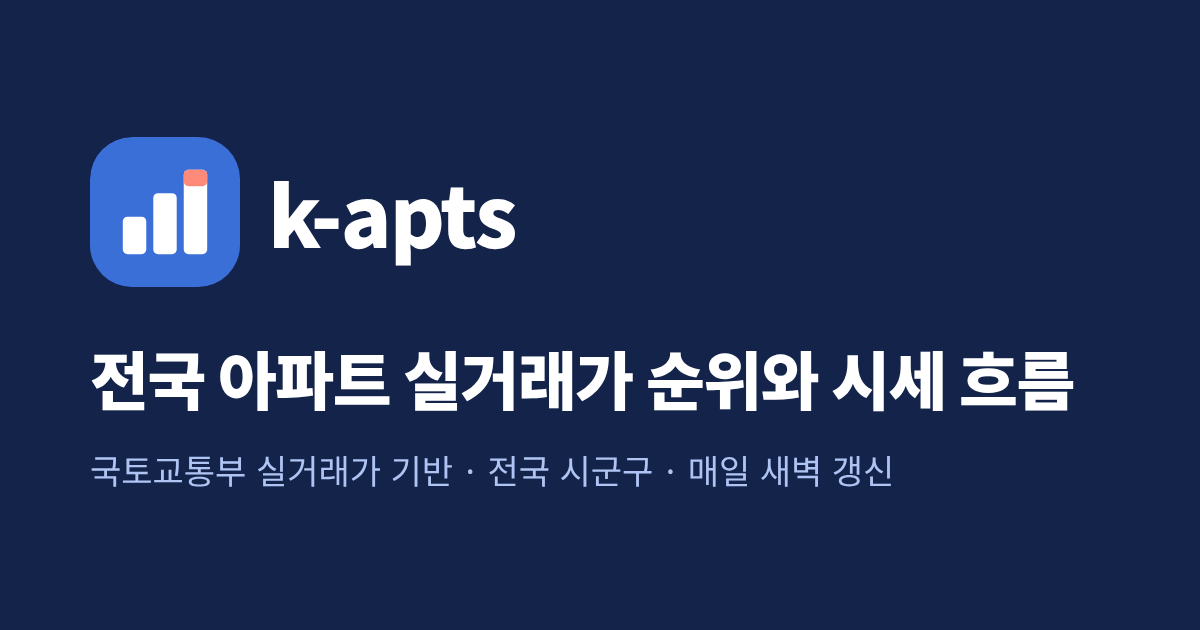
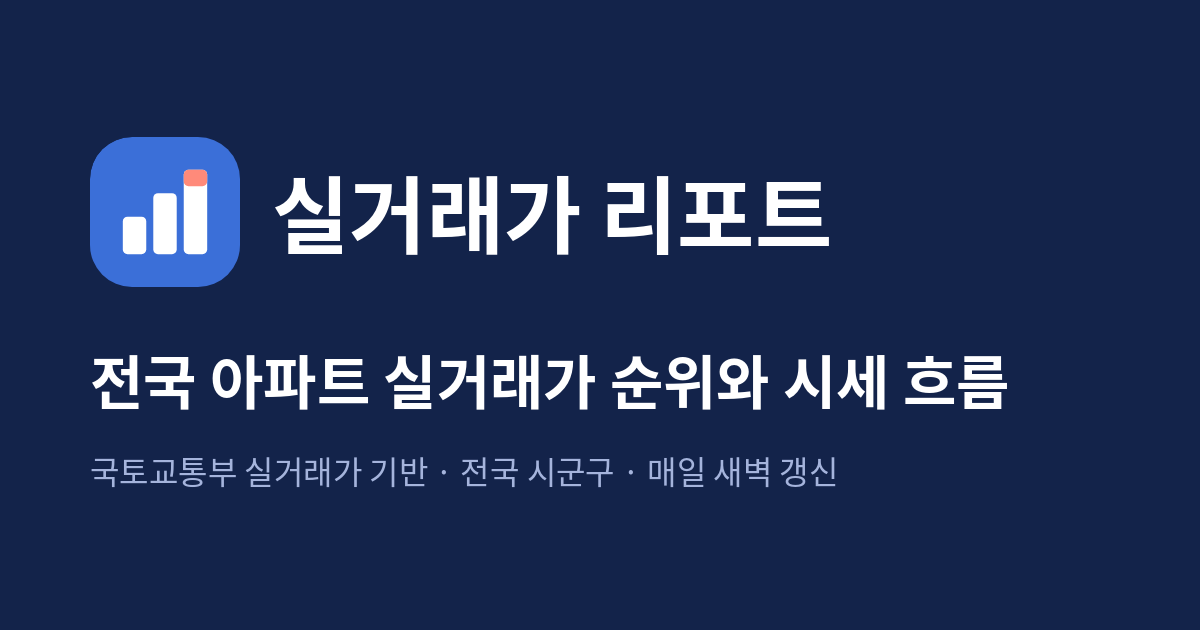
사이트 이름을 '실거래가 리포트'로 변경 (k-apts 표기 제거, 공유 이미지 교체)
Claude-Session: https://claude.ai/code/session_019dBEWx7VEgdon8M4S8WxhK

Changed region(s): [[0.0617, 0.5429, 0.8942, 0.6635], [0.2158, 0.2714, 0.7092, 0.4222], [0.0617, 0.7238, 0.74, 0.7841]]

diff --git a/site_assets/style.css b/site_assets/style.css
@@ -1,4 +1,4 @@
-/* k-apts 정적 사이트 — 데이터 리포트 톤: 본문 Pretendard, 제목 Noto Serif KR, 먹색·남색 바탕에 절제된 파랑 강조.
+/* 실거래가 리포트 정적 사이트 — 데이터 리포트 톤: 본문 Pretendard, 제목 Noto Serif KR, 먹색·남색 바탕에 절제된 파랑 강조.
    상승 빨강·하락 파랑(국내 관례), 카드는 얕은 그림자 대신 가는 선으로 구분. */
 :root {
   --bg: #F6F5F1; --card: #FFFFFF; --ink: #0E1A2E; --text: #273244; --muted: #6A7180; --line: #E3E1DA; --line-2: #EEECE6;

diff --git a/site_build.py b/site_build.py
@@ -174,7 +174,7 @@ def news_lines(name, d, m, last, gen):
     if r["상태"] == "잠정":
         dl = m + pd.offsets.MonthEnd(0) + pd.Timedelta(days=30)
         note = f", {m:%-m월}분은 신고기한({dl:%-m월 %-d일}) 전 잠정치"
-    src = f"자료: 국토교통부 아파트 매매 실거래가({gen:%Y.%m.%d} 집계{note}), k-apts 계산"
+    src = f"자료: 국토교통부 아파트 매매 실거래가({gen:%Y.%m.%d} 집계{note}), 실거래가 리포트 계산"
     return out, src
 
 
@@ -199,7 +199,7 @@ def josa(word, a, b):
 def story_items(sg, gen, data_end):
     """기자가 관심 가질 만한 숫자를 자동으로 골라 기사체 문장으로 만든다.
     잡음을 줄이려고 최근 3개월 거래가 100건 이상인 시군구만 본다."""
-    src = f"국토교통부 아파트 매매 실거래가({gen:%Y.%m.%d} 집계), k-apts 계산"
+    src = f"국토교통부 아파트 매매 실거래가({gen:%Y.%m.%d} 집계), 실거래가 리포트 계산"
     big = sg[sg["거래수_3개월"] >= 100].copy()
     items = []
 
@@ -373,7 +373,7 @@ class Site:
 {robots}<link rel="canonical" href="{url}">
 <meta property="og:title" content="{e(title)}"><meta property="og:description" content="{e(desc)}">
 <meta property="og:type" content="website"><meta property="og:url" content="{url}">
-<meta property="og:site_name" content="k-apts"><meta property="og:locale" content="ko_KR">
+<meta property="og:site_name" content="실거래가 리포트"><meta property="og:locale" content="ko_KR">
 <meta property="og:image" content="{self.base_url}/og.png"><meta property="og:image:width" content="1200">
 <meta property="og:image:height" content="630"><meta name="twitter:card" content="summary_large_image">
 <meta name="theme-color" content="#0E1A2E">{self.verify}
@@ -387,14 +387,14 @@ class Site:
 <header class="top"><div class="shell bar">
 <button type="button" class="navbtn" aria-label="메뉴 열기" aria-controls="side" aria-expanded="false"
  onclick="kNav(this)"><span></span><span></span><span></span></button>
-<a class="logo" href="{up}index.html">{MARK}<span>k-apts<small>실거래가 리포트</small></span></a>
+<a class="logo" href="{up}index.html">{MARK}<span>실거래가 리포트</span></a>
 <form class="search" role="search" onsubmit="return kGo(this)"><input name="q" list="k-regions" autocomplete="off"
  placeholder="지역 검색 (예: 대구 수성구)" aria-label="지역 검색"><button>검색</button></form>
 </div></header>
 <div class="shell layout">{self.side(path, up)}<div class="scrim" onclick="kNav()"></div>
 <main class="content">{crumb}{body}</main></div>
 <footer class="foot"><div class="shell">
-<div class="brand">{MARK}<span>k-apts</span></div>
+<div class="brand">{MARK}<span>실거래가 리포트</span></div>
 <p>국토교통부 아파트 매매 실거래가를 매일 새벽 받아 전국 시군구의 가격 흐름을 계산합니다.</p>
 <p>실거래가: 국토교통부(공공데이터포털). 미분양·주택 준공: 국토교통부, 인구 이동: 국가데이터처(KOSIS).
 행정구역 경계: 통계청 SGIS, vuski/admdongkor(CC BY 4.0).</p>
@@ -438,10 +438,10 @@ class Site:
     def jsonld(self, path, crumbs):
         """검색 결과에 경로(전국 › 시도 › 시군구)가 보이도록 BreadcrumbList, 첫 화면엔 WebSite."""
         if path == "index.html":
-            org = {"@type": "Organization", "@id": f"{self.base_url}/#org", "name": "k-apts",
+            org = {"@type": "Organization", "@id": f"{self.base_url}/#org", "name": "실거래가 리포트",
                    "url": f"{self.base_url}/", "logo": f"{self.base_url}/logo-mark.png"}
             d = {"@context": "https://schema.org", "@graph": [org, {
-                "@type": "WebSite", "name": "k-apts", "alternateName": "k-apts 전국 아파트 실거래가",
+                "@type": "WebSite", "name": "실거래가 리포트", "alternateName": "실거래가 리포트 전국 아파트 실거래가",
                 "url": f"{self.base_url}/", "inLanguage": "ko", "publisher": {"@id": f"{self.base_url}/#org"}}]}
         elif crumbs:
             d = {"@context": "https://schema.org", "@type": "BreadcrumbList", "itemListElement": [
@@ -699,7 +699,7 @@ def main():
                         + briefing_html(ss, row(sido), "법정동", short) + "</div>")
             body.append(sibling_section(short, code, sib))
             body.append(site.coupang)
-            site.write(f"r/{code}.html", f"{name} 아파트 실거래가 순위와 시세 흐름 | k-apts",
+            site.write(f"r/{code}.html", f"{name} 아파트 실거래가 순위와 시세 흐름 | 실거래가 리포트",
                        page_desc(name, ss, tp.iloc[0] if len(r_sgg) else None, len(r_sgg), ref,
                                  ("최근 한 달 실거래가 순위 10, " + ("84㎡·59㎡ 단지별 시세, " if sz else "")
                                   + "1년 전보다 많이 오른 아파트") if len(r_sgg)
@@ -739,7 +739,7 @@ def main():
         body.append(f"<h2 id='brief'>{e(short)} 시장 브리핑</h2><div class='card brief'>" + briefing_html(s, nat, "시군구", None)
                     + "</div>")
         body.append(site.coupang)
-        site.write(f"r/{sido}.html", f"{short} 아파트 실거래가 순위와 시군구별 시세 | k-apts",
+        site.write(f"r/{sido}.html", f"{short} 아파트 실거래가 순위와 시군구별 시세 | 실거래가 리포트",
                    page_desc(short, s, firsts[0][2] if firsts else None, len(recent), ref,
                              "시군구별 1위 거래와 가격 흐름, 많이 오른 아파트", firsts[0][1] if firsts else ""),
                    "".join(body), [("전국", "index.html"), (short, None)])
@@ -820,17 +820,17 @@ def main():
     body.append("<h2>이번 달 전국 시장 이야기</h2><div class='card brief'>" + briefing_html(nat, None, "시도", None)
                 + "</div>")
     body.append(site.coupang)
-    site.write("index.html", "k-apts 전국 아파트 실거래가 순위와 시세 흐름",
+    site.write("index.html", "전국 아파트 실거래가 순위와 시세 흐름 | 실거래가 리포트",
                f"전국 시군구 아파트 실거래가 순위, 1년 전보다 많이 오른 아파트, 지역별 상승·하락 판정을 매일 갱신합니다. "
                f"{ref:%Y년 %m월} 기준 전국 동일단지 가격지수 3개월 {pct(nat.get('3개월'))}, 1년 {pct(nat.get('1년'))}.",
                "".join(body))
 
-    site.write("about.html", "기준 안내 | k-apts", "k-apts가 숫자를 만드는 방법과 데이터 출처.", ABOUT,
+    site.write("about.html", "기준 안내 | 실거래가 리포트", "실거래가 리포트가 숫자를 만드는 방법과 데이터 출처.", ABOUT,
                [("전국", "index.html"), ("기준 안내", None)])
     privacy = PRIVACY.replace("<h2>접속 기록</h2>", GA_NOTE + "<h2>접속 기록</h2>") if site.ga else PRIVACY
-    site.write("privacy.html", "개인정보처리방침 | k-apts", "k-apts 개인정보처리방침.", privacy,
+    site.write("privacy.html", "개인정보처리방침 | 실거래가 리포트", "실거래가 리포트 개인정보처리방침.", privacy,
                [("전국", "index.html"), ("개인정보처리방침", None)])
-    site.write("404.html", "페이지를 찾을 수 없습니다 | k-apts", "", '<h1>페이지를 찾을 수 없습니다</h1>'
+    site.write("404.html", "페이지를 찾을 수 없습니다 | 실거래가 리포트", "", '<h1>페이지를 찾을 수 없습니다</h1>'
                '<p><a href="index.html">전국 첫 화면으로 가기</a></p>', index=False)
     site.finish()
     print(f"완료: {len(site.pages)}쪽 → {out}")
@@ -890,7 +890,7 @@ def build_stats_page(site, nat_m, sido_month, sgg_month, m, last, gen, stamp):
     desc = (f"{m:%Y년 %-m월} 전국 아파트 매매 {int(nat['거래량']):,}건(전월 대비 {pct(nat['거래량_전월'], 0)}, "
             f"전년 동월 대비 {pct(nat['거래량_전년'], 0)}). 시도·시군구별 거래량과 중위 거래가, 가격지수 변동을 "
             "기사 인용용 문장과 함께 정리했습니다.")
-    site.write("stats.html", f"{m:%Y년 %-m월} 아파트 매매 월간 통계 · 시도·시군구 거래량 | k-apts", desc,
+    site.write("stats.html", f"{m:%Y년 %-m월} 아파트 매매 월간 통계 · 시도·시군구 거래량 | 실거래가 리포트", desc,
                "".join(body), [("전국", "index.html"), ("월간 통계", None)])
 
 
@@ -925,7 +925,7 @@ def build_today_page(site, fresh, by_sido, counts, gen, last):
                 parts.append(f'<h2 id="s{c}"><a href="r/{c}.html">{SIDO_SHORT[c]}</a> 시군구별 최고 거래 '
                              f'<small class="muted">{len(new):,}건</small></h2>'
                              + table(FRESH_HEAD_SGG, fresh_rows(new, True, cnt)))
-        title = f"오늘 공개된 아파트 실거래가 · 시군구별 최고 ({gen:%Y.%m.%d}) | k-apts"
+        title = f"오늘 공개된 아파트 실거래가 · 시군구별 최고 ({gen:%Y.%m.%d}) | 실거래가 리포트"
         desc = (f"{gen:%Y년 %-m월 %-d일} 새로 공개된 전국 아파트 매매 실거래 {total:,}건을 시도·시군구별 최고가로 "
                 "정리했습니다. 매일 새벽 국토교통부 실거래가 갱신분 기준.")
     else:
@@ -940,7 +940,7 @@ def build_today_page(site, fresh, by_sido, counts, gen, last):
                 rc = rec.groupby("시군구코드").size().to_dict()
                 parts.append(f'<h2 id="s{c}"><a href="r/{c}.html">{SIDO_SHORT[c]}</a> 시군구별 최고 거래</h2>'
                              + table(FRESH_HEAD_SGG[:-1] + ["3일 거래"], fresh_rows(rec, True, rc)))
-        title = "최근 공개된 아파트 실거래가 · 시군구별 최고 | k-apts"
+        title = "최근 공개된 아파트 실거래가 · 시군구별 최고 | 실거래가 리포트"
         desc = "최근 계약된 전국 아파트 매매 실거래를 시도·시군구별 최고가로 정리했습니다. 매일 새벽 갱신."
     body = (f'<h1>오늘 공개된 아파트 실거래가</h1><p class="sub">아파트 매매는 계약 후 30일 안에 신고하고, '
             "신고된 거래는 국토교통부 실거래가 자료로 공개됩니다. 신고일은 공개되지 않아, 매일 새벽 갱신 때 처음 나타난 거래를 '새로 공개된 거래'로 "
@@ -1000,7 +1000,7 @@ GA_NOTE = """<h2>방문 통계</h2>
 """
 
 PRIVACY = """<h1>개인정보처리방침</h1>
-<p>k-apts(이하 '사이트')는 이용자의 개인정보를 직접 수집하지 않습니다. 회원 가입, 로그인, 게시판, 문의 양식이 없습니다.</p>
+<p>실거래가 리포트(이하 '사이트')는 이용자의 개인정보를 직접 수집하지 않습니다. 회원 가입, 로그인, 게시판, 문의 양식이 없습니다.</p>
 <h2>쿠키와 광고</h2>
 <ul><li>사이트에는 Google AdSense, 카카오 애드핏, 쿠팡 파트너스 광고가 표시될 수 있습니다.</li>
 <li>Google을 포함한 제3자 광고 사업자는 쿠키를 사용해 이용자의 이 사이트 및 다른 사이트 방문 기록을 바탕으로
